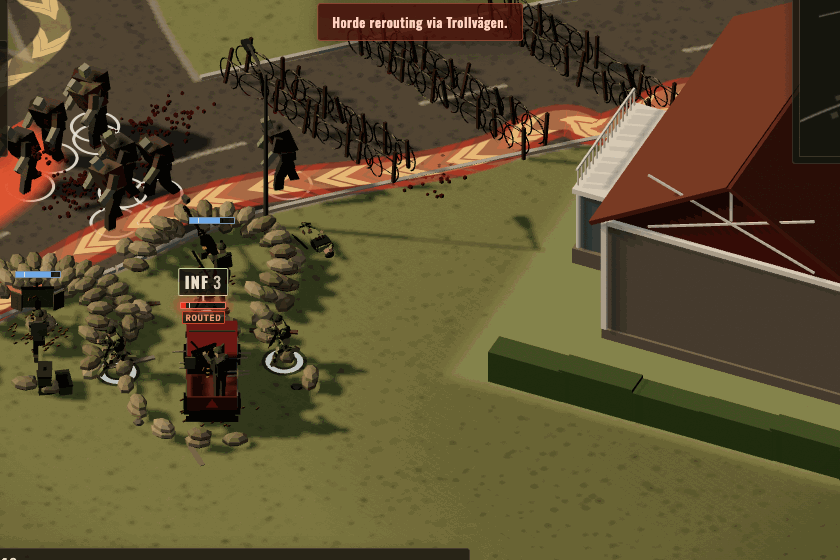
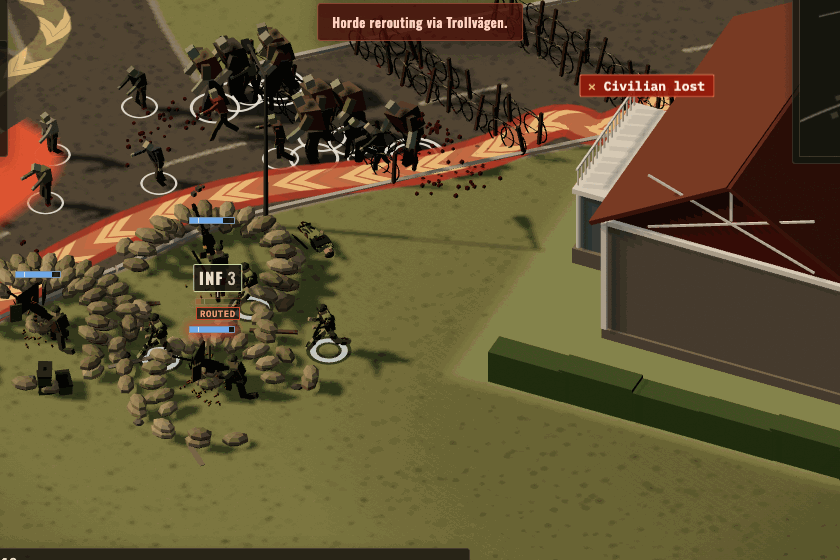
0.26.3: evakueringslappen och basens skylt går inte på varandra (layoutprovet Laxne och Västerkärv)

Changed region(s): [[0.0, 0.0, 0.8667, 0.7893], [0.3405, 0.3946, 0.3714, 0.425], [0.0, 0.3946, 0.031, 0.425]]

diff --git a/src/main.js b/src/main.js
@@ -1631,7 +1631,8 @@ function updateBaseLabel() {
   baseLabel.style.left = sx + 'px'; baseLabel.style.top = sy + 'px';
   // 0.23.1 (speltestet av 0.23.0: "INF 5" över basskylten): skylten lyfts ovanför enheternas lappar vid basen
   baseLabel.style.marginTop = '0px';
-  const tags = [...pips.querySelectorAll('.sqtag')].map(n => n.getBoundingClientRect()).filter(r => r.width);
+  // 0.26.3 (layoutprovet, Västerkärv: skylten över EPA:ns lägeslapp): också enheternas lägeslappar
+  const tags = [...pips.querySelectorAll('.sqtag, .ustat')].map(n => n.getBoundingClientRect()).filter(r => r.width);
   let r = baseLabel.getBoundingClientRect();
   for (let i = 0; i < 4 && tags.some(t => t.left < r.right && r.left < t.right && t.top < r.bottom && r.top < t.bottom); i++) {
     baseLabel.style.marginTop = (-(i + 1) * 22) + 'px'; r = baseLabel.getBoundingClientRect();
@@ -2697,12 +2698,18 @@ function updateEvacMarks() {
     for (const el of evacEls.values()) {
       // mäts synlig (en dold lapp har ingen ruta och kom annars tillbaka varannan bildruta)
       el.style.marginTop = '0px'; el.hidden = false;
-      let r = el.getBoundingClientRect();
-      for (let i = 0; i < 3 && tags.some(t => t.left < r.right && r.left < t.right && t.top < r.bottom && r.top < t.bottom); i++) {
-        el.style.marginTop = (-(i + 1) * 24) + 'px'; r = el.getBoundingClientRect();
+      // 0.26.3 (layoutprovet, Laxne och Västerkärv: lappen låg på basens skylt och ingångens namn): uppåt först, sedan
+      // nedåt; ligger den på något i alla lägen visas den inte
+      const onTag = r => tags.some(t => t.left < r.right && r.left < t.right && t.top < r.bottom && r.top < t.bottom);
+      const onHud = r => hud.some(u => u.x0 < r.right && r.left < u.x1 && u.y0 < r.bottom && r.top < u.y1);
+      let ok = false;
+      for (const dy of [0, -24, -48, -72, 24, 48]) {
+        el.style.marginTop = dy + 'px';
+        const r = el.getBoundingClientRect();
+        if (!onTag(r) && !onHud(r)) { ok = true; break; }
       }
-      const hide = hud.some(u => u.x0 < r.right && r.left < u.x1 && u.y0 < r.bottom && r.top < u.y1);
-      if (el.hidden !== hide) el.hidden = hide;
+      if (!ok) el.style.marginTop = '0px';
+      if (el.hidden !== !ok) el.hidden = !ok;
     }
   }
 }
